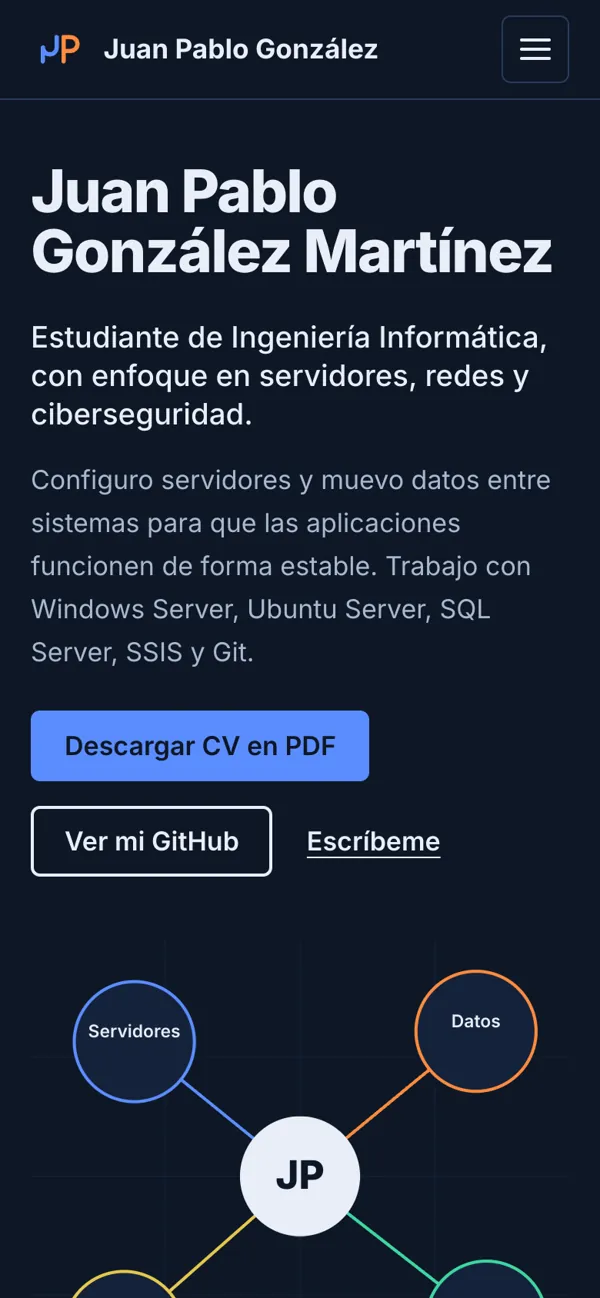
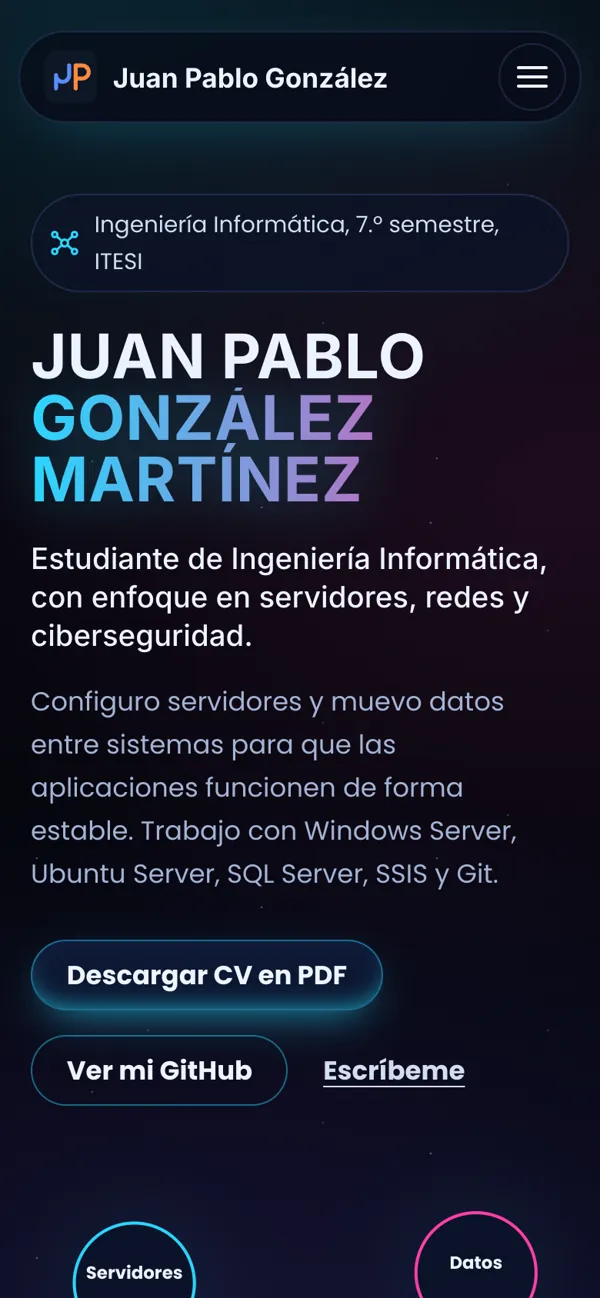
Actualiza README y capturas

diff --git a/README.md b/README.md
@@ -19,17 +19,18 @@ Portafolio profesional individual de un estudiante de Ingeniería Informática d
 ## Secciones
 
 - **Inicio:** nombre, especialización, propuesta de valor en dos líneas, botón para descargar el CV en PDF y enlaces a GitHub y contacto. Incluye un mapa interactivo de mis áreas de trabajo.
-- **Proyectos:** cinco proyectos con captura o diagrama, problema que resuelven, tecnologías, enlace al código y a la demo cuando existen. Mala Fama Games tiene una vista detallada (modal) con arquitectura, retos técnicos y resultados.
-- **Habilidades:** clasificadas por área, sin barras de porcentaje. Lo que sigo aprendiendo está marcado con borde punteado.
+- **Proyectos:** cinco proyectos con filtros por tipo, captura o diagrama dentro de un marco de navegador, problema que resuelven, tecnologías, enlace al código y a la demo cuando existen. Mala Fama Games tiene una vista detallada (modal) con arquitectura, retos técnicos y resultados.
+- **Habilidades:** clasificadas por área, con ícono por tecnología y sin barras de porcentaje. Lo que sigo aprendiendo está marcado con borde punteado.
 - **Trayectoria y formación:** línea del tiempo académica, concursos, actividades y certificaciones.
 - **Contacto:** formulario con validación en el cliente y enlaces a GitHub y correo.
 
 ## Tecnologías
 
 - HTML5 semántico (`header`, `main`, `section`, `article`, `footer`, `dialog`)
-- CSS3 con variables, Grid y Flexbox, diseño mobile-first
-- JavaScript sin librerías: menú móvil, vista detallada accesible, sección activa y validación del formulario
-- Tipografías Bricolage Grotesque e IBM Plex Sans (Google Fonts)
+- CSS3 con variables, Grid y Flexbox, diseño mobile-first y estilo neón oscuro
+- JavaScript sin librerías: luz que sigue al mouse, animación al hacer scroll, tarjetas con inclinación, filtros de proyectos, vista detallada accesible, sección activa y validación del formulario
+- Tipografías Chakra Petch y Poppins (Google Fonts)
+- Íconos de tecnologías de [Devicon](https://devicon.dev/) (licencia MIT), guardados localmente en `assets/icons`, y íconos propios en SVG
 - Imágenes en WebP y diagramas en SVG
 
 ## Estructura de carpetas
@@ -39,6 +40,7 @@ Portafolio profesional individual de un estudiante de Ingeniería Informática d
 ├── index.html
 ├── README.md
 ├── assets/
+│   ├── icons/          Íconos de tecnologías (SVG)
 │   └── img/            Capturas de proyectos (WebP), diagrama y favicon (SVG)
 ├── css/
 │   └── styles.css
@@ -55,7 +57,9 @@ Portafolio profesional individual de un estudiante de Ingeniería Informática d
 - Enlace para saltar al contenido, foco visible, etiquetas en todos los campos y mensajes de error con `role="alert"`.
 - Todas las imágenes tienen texto alternativo, ancho y alto definidos y carga diferida.
 - Imágenes de proyectos en WebP de entre 20 y 45 KB cada una.
-- Respeta la preferencia de movimiento reducido del sistema.
+- Respeta la preferencia de movimiento reducido del sistema: sin animaciones de entrada ni inclinación.
+- Los efectos del mouse solo se activan en dispositivos con mouse.
+- Todo el CSS está limitado al contenedor `.jp`, para que no choque con otros portafolios si se juntan en un mismo sitio.
 - No usa frameworks ni librerías externas de JavaScript.
 
 ## Cómo ejecutarlo en local
